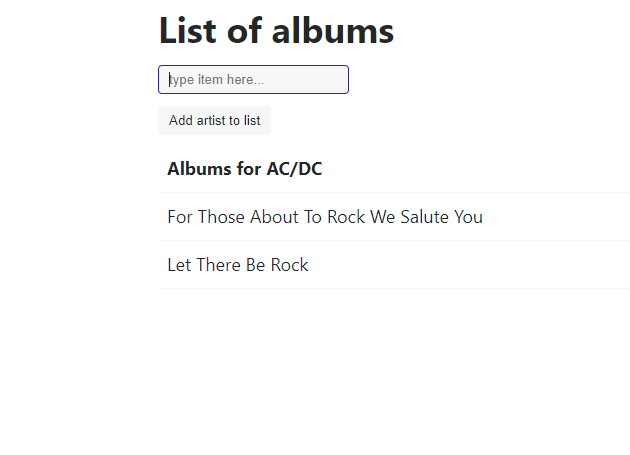
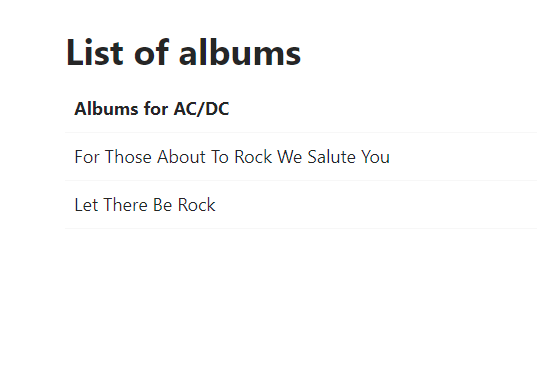
Update

diff --git a/src/main/java/servlet/AlbumsServlet.java b/src/main/java/servlet/AlbumsServlet.java
@@ -8,8 +8,8 @@ import javax.servlet.http.HttpServlet;
 import javax.servlet.http.HttpServletRequest;
 import javax.servlet.http.HttpServletResponse;
 
-import database.AlbumDao;
-import database.ArtistDao;
+import database.JDBCAlbumDao;
+import database.JDBCArtistDao;
 import model.Album;
 import model.Artist;
 
@@ -17,18 +17,18 @@ import model.Artist;
 @WebServlet("/albums")
 public class ShowAlbumsServlet extends HttpServlet {
 
-	private AlbumDao albumDao = new AlbumDao();
-	private ArtistDao artistDao = new ArtistDao();
+	private JDBCAlbumDao albumDao = new JDBCAlbumDao();
+	private JDBCArtistDao artistDao = new JDBCArtistDao();
 
 	@Override
 	protected void doGet(HttpServletRequest req, HttpServletResponse resp) throws ServletException, IOException {
-		String artistId = req.getParameter("ArtistId");
-		long id = Long.parseLong(artistId);
+		
+		Long artistId = Long.parseLong(req.getParameter("ArtistId"));
 
-		Artist artist = artistDao.getArtist(id);
-		String artistName = artist.toString();
+		Artist artist = artistDao.getArtist(artistId);
+		String artistName = artist.getName();
 
-		List<Album> albums = albumDao.getAlbums(id);
+		List<Album> albums = albumDao.getAlbums(artistId);
 
 		req.setAttribute("artistName", artistName);
 		req.setAttribute("albums", albums);

diff --git a/src/main/java/database/JDBCArtistDao.java b/src/main/java/database/JDBCArtistDao.java
@@ -9,14 +9,15 @@ import java.util.ArrayList;
 import java.util.List;
 import model.Artist;
 
-public class ArtistDao {
+public class JDBCArtistDao implements ArtistDao {
 
 	public static final String JDBC_URL = System.getenv("JDBC_DATABASE_URL");
 
 	public Connection connect() throws SQLException {
 		return DriverManager.getConnection(JDBC_URL);
 	}
-
+	
+	@Override
 	public List<Artist> getAllArtists() {
 
 		List<Artist> artistList = new ArrayList<>();
@@ -38,7 +39,8 @@ public class ArtistDao {
 		}
 		return artistList;
 	}
-
+	
+	@Override
 	public boolean addArtist(Artist newArtist) {
 
 		String i = newArtist.getName();
@@ -66,6 +68,7 @@ public class ArtistDao {
 		return b;
 	}
 
+	@Override
 	public Artist getArtist(long artistId) {
 
 		Artist searchResult = new Artist(artistId, null);

diff --git a/src/main/java/servlet/ArtistServlet.java b/src/main/java/servlet/ArtistServlet.java
@@ -9,14 +9,14 @@ import javax.servlet.http.HttpServlet;
 import javax.servlet.http.HttpServletRequest;
 import javax.servlet.http.HttpServletResponse;
 
-import database.ArtistDao;
+import database.JDBCArtistDao;
 import model.Artist;
 
 @SuppressWarnings("serial")
 @WebServlet("/")
 public class ArtistServletList extends HttpServlet {
 
-	private ArtistDao dao = new ArtistDao();
+	private JDBCArtistDao dao = new JDBCArtistDao();
 
 	@Override
 	protected void doGet(HttpServletRequest req, HttpServletResponse resp) throws ServletException, IOException {

diff --git a/src/main/java/database/JDBCAlbumDao.java b/src/main/java/database/JDBCAlbumDao.java
@@ -10,7 +10,7 @@ import java.util.List;
 
 import model.Album;
 
-public class AlbumDao {
+public class JDBCAlbumDao implements AlbumDao{
 	
 	public static final String JDBC_URL = System.getenv("JDBC_DATABASE_URL");
 
@@ -18,6 +18,7 @@ public class AlbumDao {
 		return DriverManager.getConnection(JDBC_URL);
 	}
 	
+	@Override
 	public List<Album> getAlbums(long artistId) {
 
 		List<Album> albums = new ArrayList<>();

diff --git a/src/main/java/model/Artist.java b/src/main/java/model/Artist.java
@@ -32,7 +32,9 @@ public class Artist {
 
 	@Override
 	public String toString() {
-		return name;
+		return "Artist [id=" + id + ", name=" + name + "]";
 	}
+
+
 
 }
